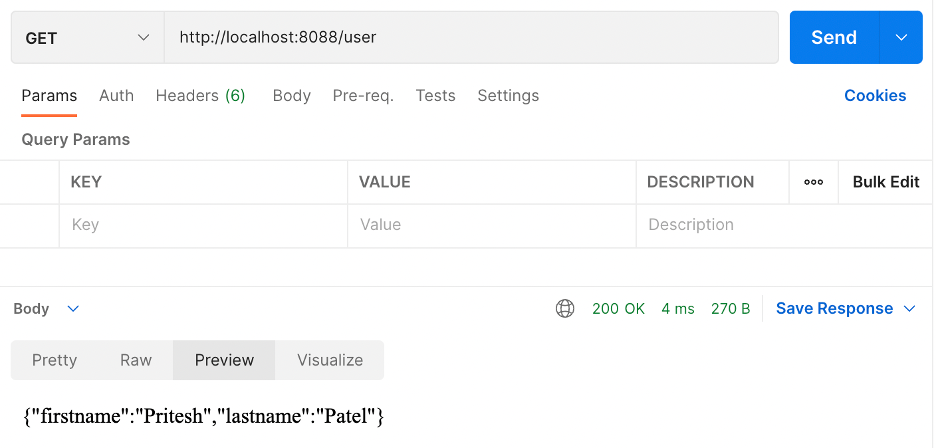
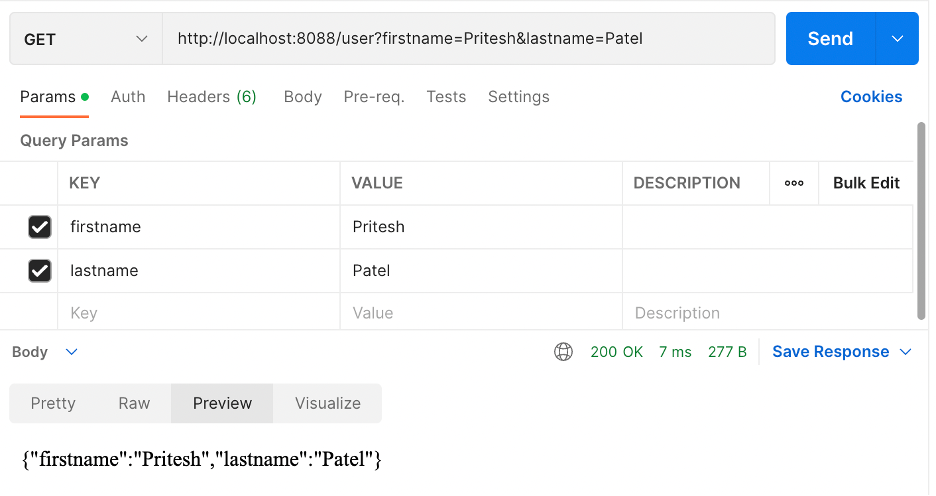
Updated Week 4 Files

diff --git a/Week 4/101277841_COMP3123-exec04/101277841_COMP3123-exec04.js b/Week 4/101277841_COMP3123-exec04/101277841_COMP3123-exec04.js
@@ -2,27 +2,43 @@ const express = require("express")
 const SERVER_PORT = 8088
 const app = express()
 
-app.get("/", (req,res) => {
+//Displayed when accessing the server
+app.get("/", (req, res) => {
     res.send("<h1>Lab 4 Exercise JS</h1>")
 })
 
+//GET request: /hello return "Hello Express JS"
 app.get("/hello", (req, res) => {
     res.send("<h1>Hello Express JS")
 })
 
+// //GET request: /user return that uses QueryString to send values
+//http://localhost:8088/user?firstname=Pritesh&lastname=Patel
 app.get("/user", (req, res) => {
-    var user = {
-        firstname: "Pritesh", 
-        lastname: "Patel"
+    const firstname = req.query.firstname
+    const lastname = req.query.lastname
+
+    res.send({
+        firstname,
+        lastname
+    })
+})
+
+//POST request: /user return that uses Path Parameter to send values
+//http://localhost:8088/user/Pritesh/Patel
+app.post("/user/:firstname/:lastname", (req, res) => {
+    //res.send(JSON.stringify(req.params))
+    const user = req.params
+    var firstname = user.firstname
+    var lastname = user.lastname
+
+    const newUser = {
+        firstname,
+        lastname
     }
-    res.send(JSON.stringify(user))
+    res.json(newUser)
 })
-
-app.post("/user/:firstname/:lastname", (req,res) => {
-    res.send(JSON.stringify(req.params))
-})
-
 
 app.listen(SERVER_PORT, () => {
-    console.log(`Server Started at http://localhost:${SERVER_PORT}`)  
+    console.log(`Server Started at http://localhost:${SERVER_PORT}`)
 })
